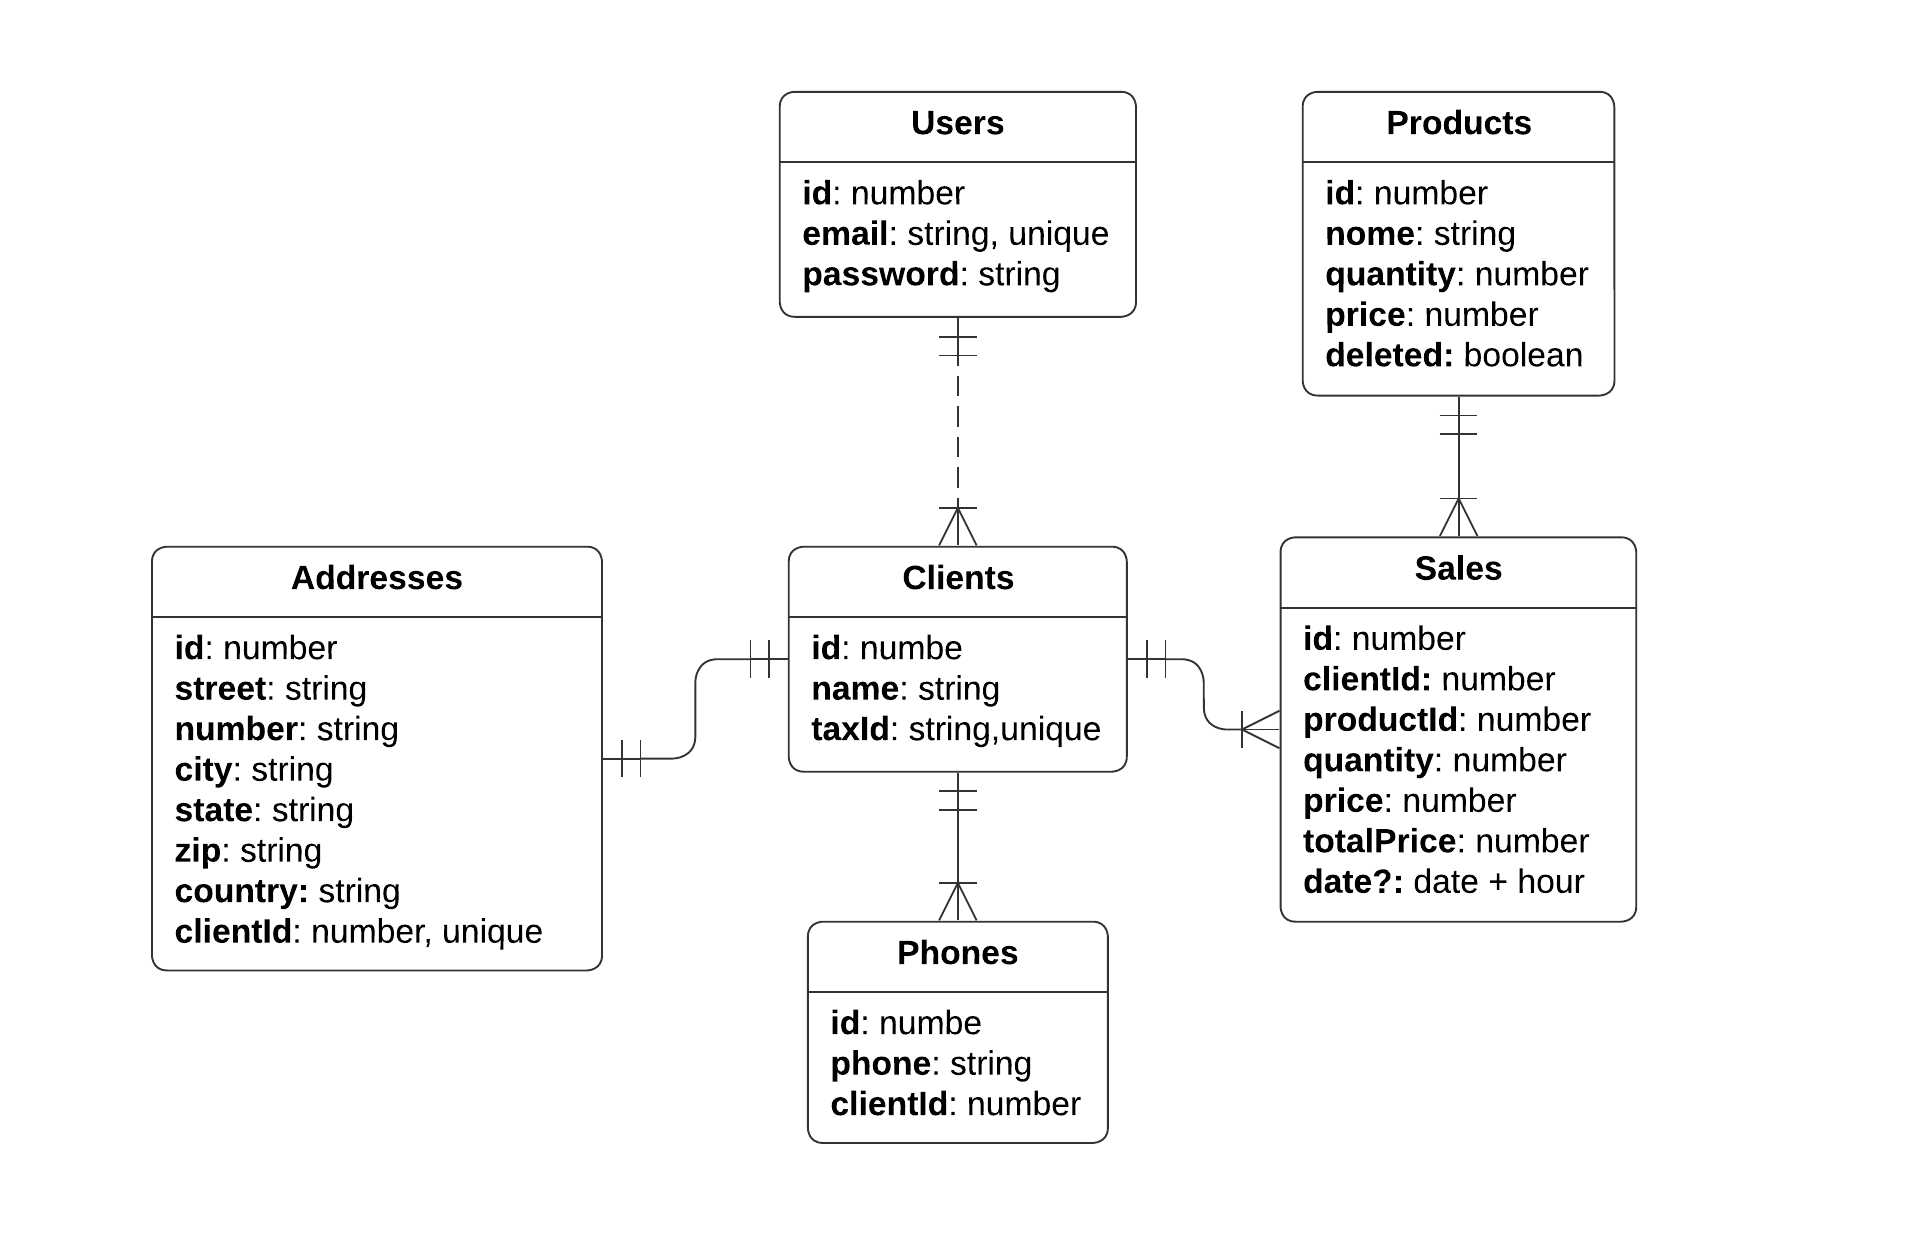
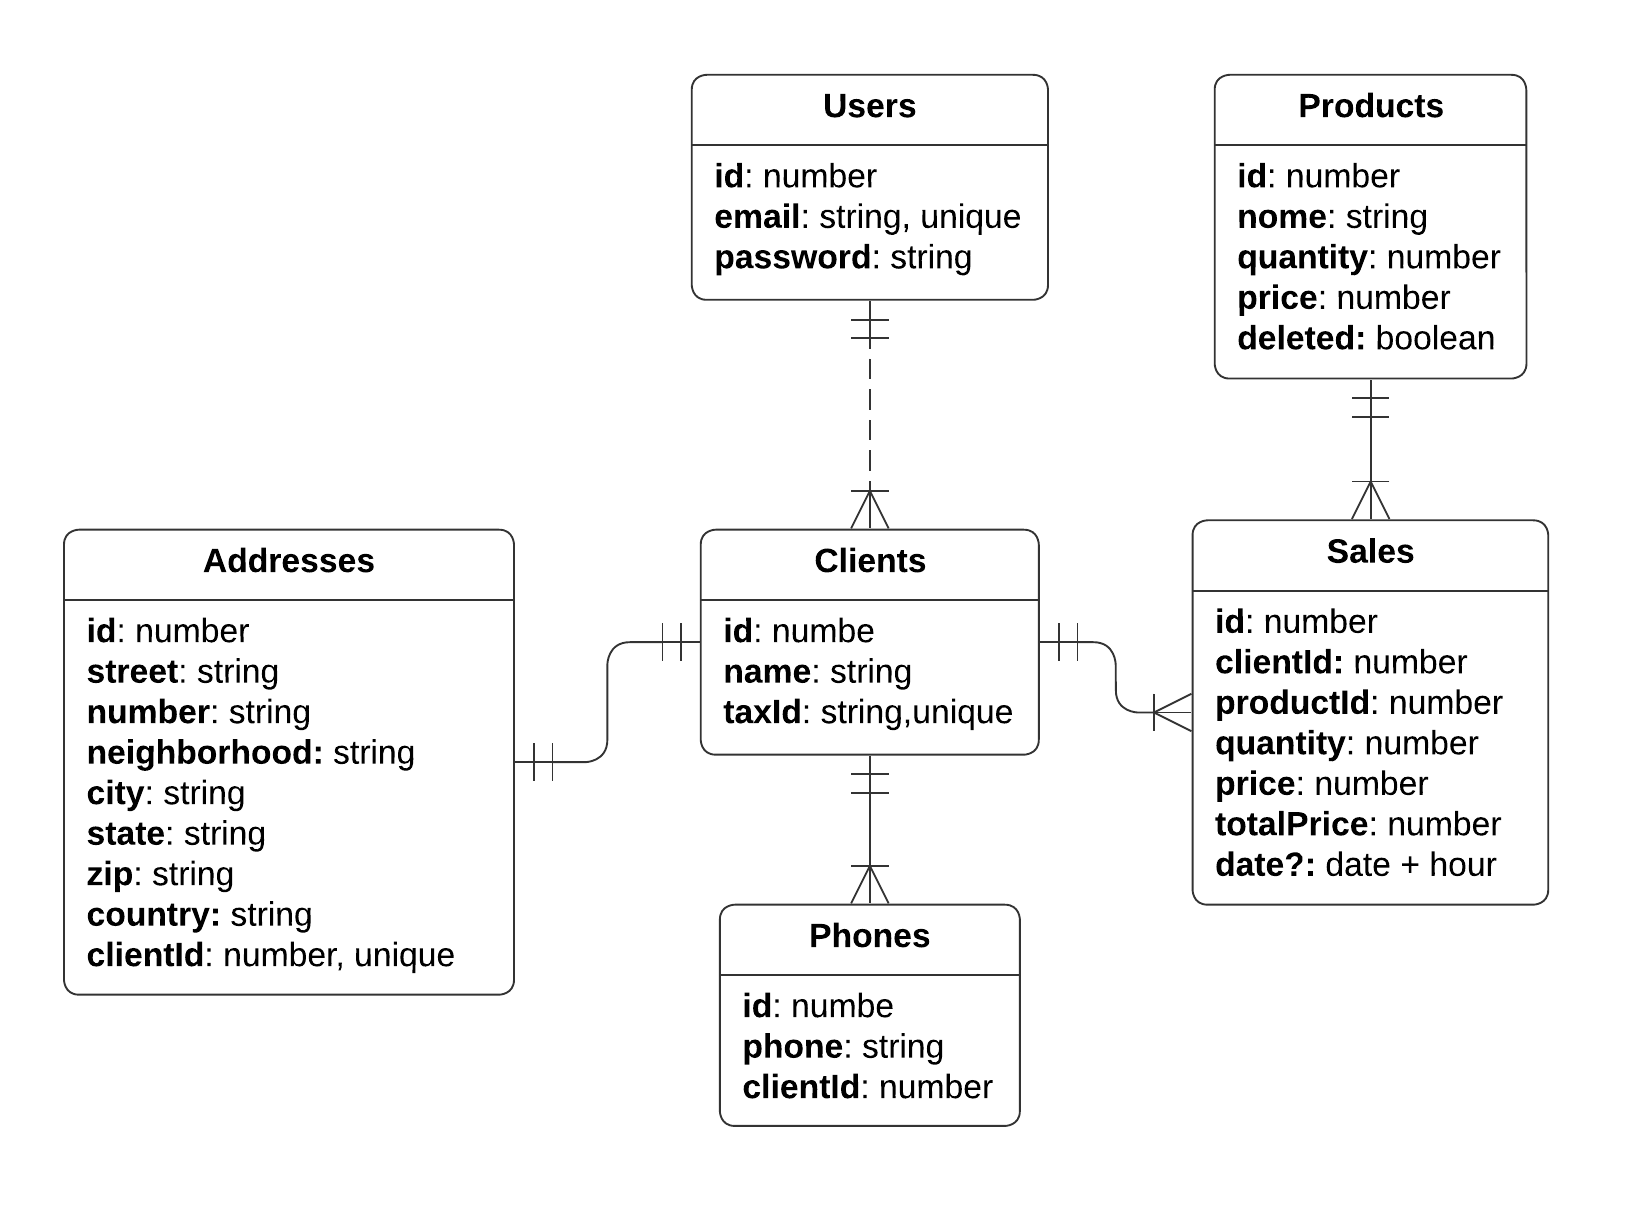
refactor: added neighborhood in migration, model and diagram de address

diff --git a/database/migrations/1719725134890_create_addresses_table.ts b/database/migrations/1719725134890_create_addresses_table.ts
@@ -9,6 +9,7 @@ export default class extends BaseSchema {
 
       table.string('street', 150).notNullable()
       table.string('number', 8).notNullable()
+      table.string('neighborhood', 60).notNullable()
       table.string('city', 60).notNullable()
       table.string('state', 60).notNullable()
       table.string('country', 60).notNullable()

diff --git a/app/models/address.ts b/app/models/address.ts
@@ -13,6 +13,9 @@ export default class Address extends BaseModel {
   declare number: string
 
   @column()
+  declare neighborhood: string
+
+  @column()
   declare city: string
 
   @column()
